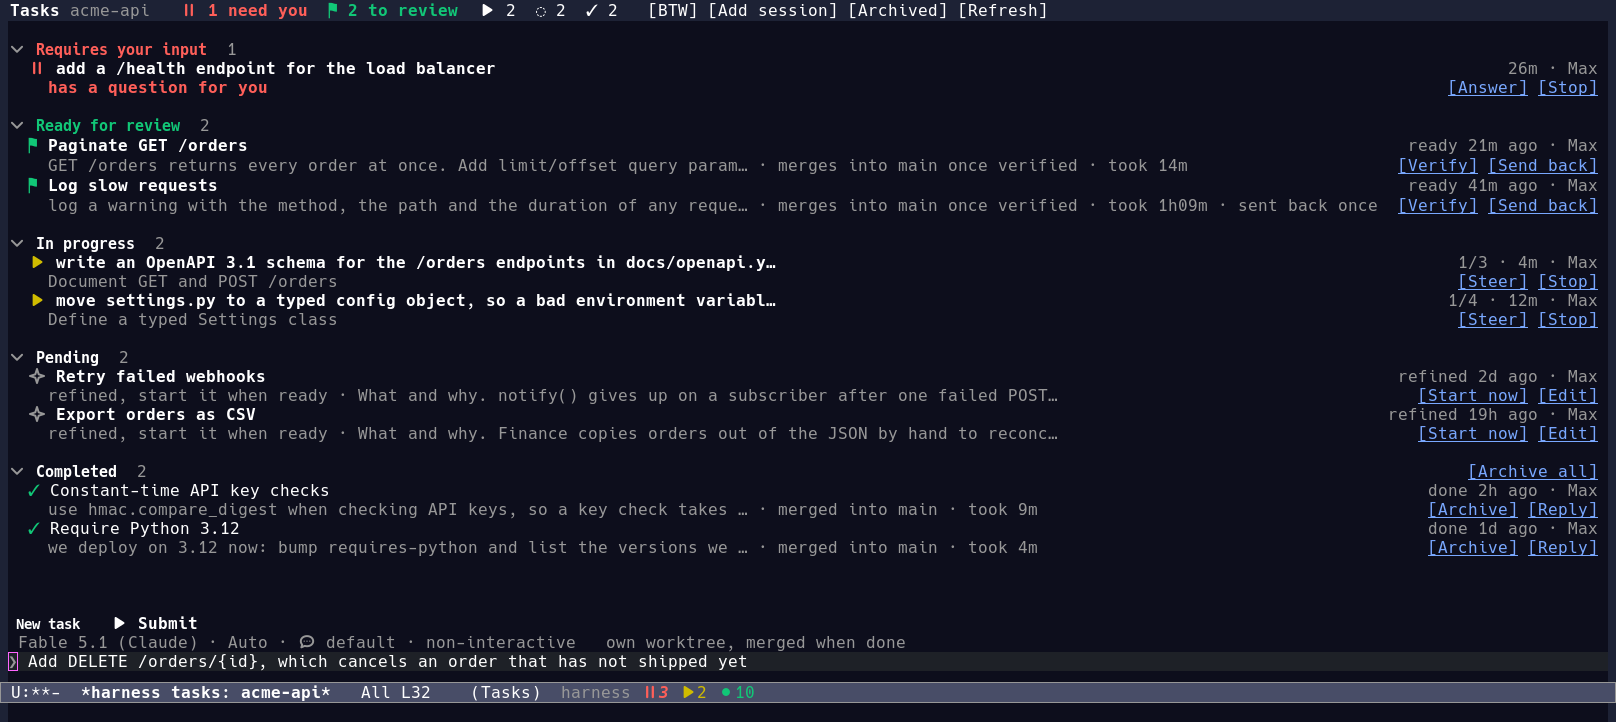
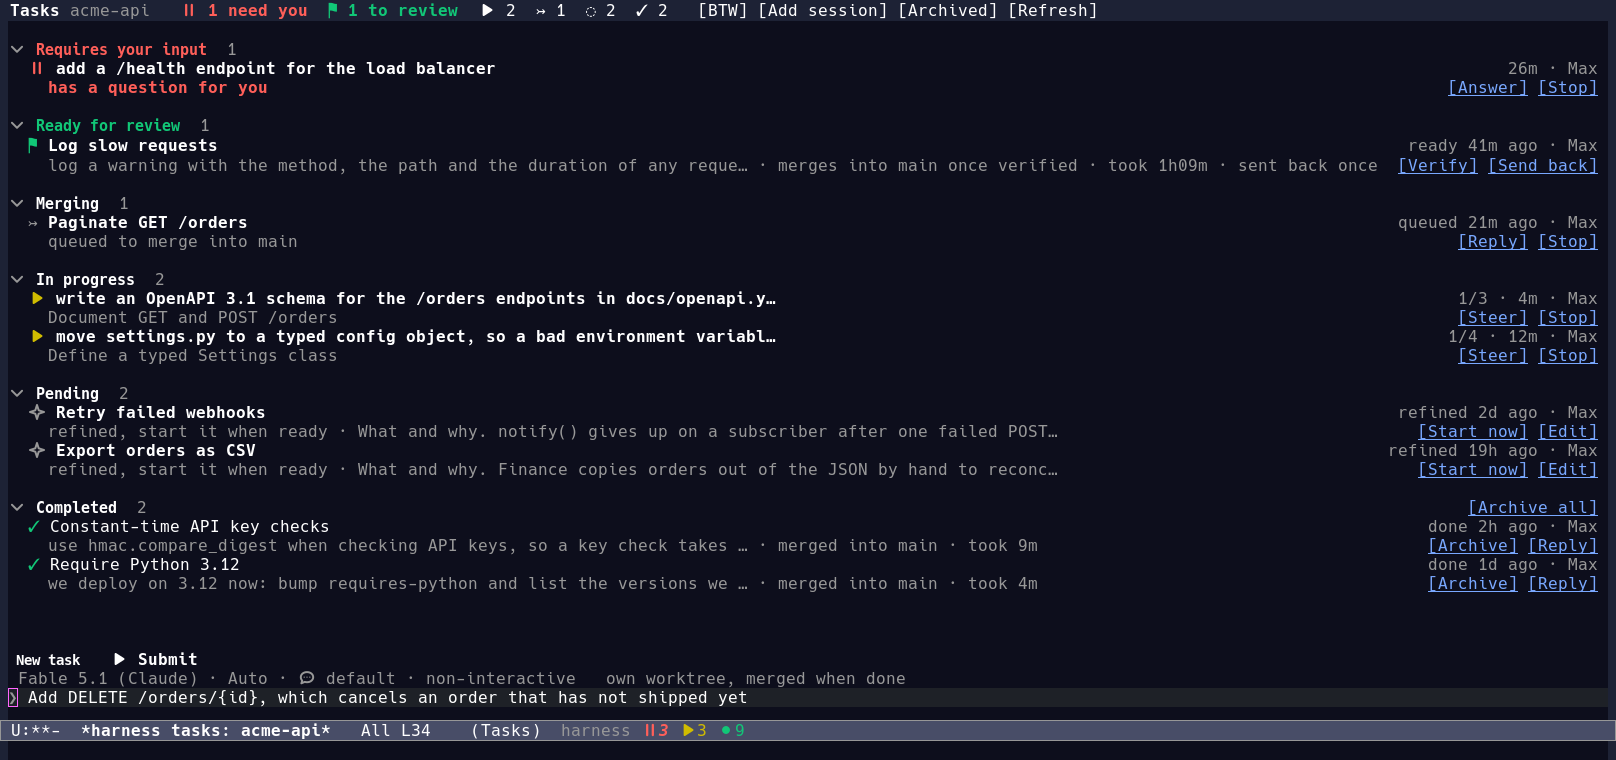
tasks: a Merging section for branches in the merge queue
A task whose branch holds a place in the merge queue now has a column of
its own: `merging', queued for the queue's turn, merging, or its session
resolving the conflicts.  The board draws it as its own section right
after Ready for review, in the queue's own order (`:merge-queued' records
when a branch joined, and the card says "queued 2m ago"), with the merge
gone into as its detail.  A session that is waited on -- a conflict turn
asking a question or for a permission -- still reads needs-input: the
queue waits for the user too.

- harness-tasks: the derived column, the `:merge-queued' stamp, and the
  commentary; task files keep writing `column: merging'.
- task_list/task_wait: the column, its filter and its `until'.
- board: the section, its icon, details, meta, actions, header count and
  the queue ordering; the media world verifies one branch into the queue
  for the tasks picture.

diff --git a/docs/architecture.md b/docs/architecture.md
@@ -1007,15 +1007,18 @@ pending request and resolves when answered).
 Task mode: one session per task.  TASK =
 `(:id "t-…" :project ROOT :cwd DIR :prompt "…" :attachments (…)
 :state pending|refining|active|merging|review|done
-:column pending|needs-input|active|review|done
+:column pending|needs-input|active|review|merging|done
 :backlog BOOL :note "the words a backlog task was written up from" :refined F
 :session SID :outcome nil|end-turn|error|cancelled|merge-failed|merged|…
 :error "…" :worktree DIR :branch NAME :base NAME :merge-status nil|queued|merging|conflict
-:conflicts (FILE…) :merged BOOL :archived BOOL :created F :started F :finished F
+:merge-queued F :conflicts (FILE…) :merged BOOL :archived BOOL :created F :started F :finished F
 :verified BOOL :verified-at F :feedback ((:text "..." :at F) ...)
 :file "docs/tasks/ID-SLUG.md" :updated F :extra (RAW-ENTRY ...))`.
 `:column` is derived on every read: `needs-input` when the session is
-blocked on a request or the task stopped part way, `review` while its
+blocked on a request or the task stopped part way, `merging` while its
+branch holds a place in the merge queue (`:merge-status' queued,
+merging or conflict; `:merge-queued' is when it joined, which orders
+the board's section), `review` while its
 finished work waits for the user's verdict.  `:file` (relative
 to `:project`), `:updated` (when the harness last wrote the file) and
 `:extra` (the raw frontmatter entries the harness does not know) belong
@@ -1070,6 +1073,8 @@ to the task's file (below); the record also keeps `:file-base` and
   `merge/enqueue SID TARGET`, TARGET being the project's root session
   named `harness-tasks-merge-session-name`
   (created on demand); `merge/finished … merged` makes the task `done`.
+  While its branch holds a place in the queue the task is in the
+  `merging` column (`:merge-queued` says when it joined).
   Failures the agent can fix (uncommitted work) are steered by the merge
   queue; others, or more than `harness-tasks-merge-attempts`, set
   `:outcome merge-failed`.  Outside git `end-turn` makes it `done`.
@@ -1079,7 +1084,8 @@ to the task's file (below); the record also keeps `:file-base` and
   TASK`; in git its branch waits unmerged, so nothing reaches the base
   branch unreviewed.  `task/verify ID` accepts the work (`:verified t
   :verified-at F`): its branch goes through the merge queue as above
-  and the task is `done` once merged (outside git, or when the branch
+  and the task is `done` once merged, waiting in `merging` between the
+  two (outside git, or when the branch
   merged already, at once).  `task/reject ID FEEDBACK &optional
   ATTACHMENTS` sends it back: the feedback goes to the same session, in
   its own worktree and with its provider conversation, as a prompt
@@ -1388,10 +1394,10 @@ TRAMP prefixes come from the session host):
 | `session_send` | Message session | session_id, message, mode (send/queue), wait | meta |
 | `session_control` | Control session | session_id, action (cancel/resume/close/rename/answer), name, question_id, answer | meta |
 | `session_wait` | Wait for sessions | session_id / session_ids, until (stopped/idle/blocked/running/changed), mode (all/any), timeout_seconds | read |
-| `task_list` | List tasks | column (pending/needs-input/active/review/done), include_archived, all_projects | read |
+| `task_list` | List tasks | column (pending/needs-input/active/review/merging/done), include_archived, all_projects | read |
 | `task_submit` | Submit task | prompt, cwd, model, thinking, refine (for the backlog) | meta |
 | `task_control` | Control task | task_id, action (start/message/cancel/merge/verify/reject/complete/archive/restore/delete), message (the feedback, for reject) | meta |
-| `task_wait` | Wait for tasks | task_id / task_ids, until (settled/done/needs-input/active/review/changed; settled counts review), mode, timeout_seconds | read |
+| `task_wait` | Wait for tasks | task_id / task_ids, until (settled/done/needs-input/active/review/merging/changed; settled counts review), mode, timeout_seconds | read |
 | `notify` | Notification | message, title, urgency (low/normal/critical), providers, url | meta (needs no approval: `harness-perms-auto-allow-tools`) |
 | `notification_providers` | Notification providers | (none) | read |
 | `merge_done` | Finish merge | none | meta (merge module) |
@@ -1669,10 +1675,11 @@ The task board's function opens the board of the notification's
 notification through `_harness/notification/send` and says in the
 echo area what each provider did with it.
 
-Task board (`harness-ui-tasks`, `C-c h a`): the project's tasks in five
-sections -- requires your input, ready for review, in progress, pending,
-completed -- with each card's current todo, progress, elapsed time,
-cost and merge state, one-click answers to a blocked task's question or
+Task board (`harness-ui-tasks`, `C-c h a`): the project's tasks in six
+sections -- requires your input, ready for review, merging, in progress,
+pending, completed -- with each card's current todo, progress, elapsed
+time, cost and merge state, one-click answers to a blocked task's
+question or
 permission, and a compose box that submits a task, edits a pending one,
 messages a task's session, answers its question or takes the feedback
 that sends a task back from review (`C-g` leaves an edit, message,
@@ -1680,7 +1687,10 @@ answer or feedback for a new task again: a question stays waiting,
 never cancelled).  A task in review shows [Verify] and [Send back]: `v`
 accepts the work (its branch then merges), `R` sends it back to its
 session with the feedback written in the compose box (`C-u R` reads it
-in the minibuffer).  The header counts the tasks to review, and
+in the minibuffer).  A verified task waits in merging -- queued for the
+queue's turn, merging, or its session resolving the conflicts -- saying
+so on its card until the branch is in and it moves to completed.  The
+header counts the tasks to review, and
 `task/review` says in the echo area that one is ready
 (`harness-ui-tasks-notify-review`).  RET opens the session, and
 `C-c h a` there leads back to the open board listing its task, whatever
@@ -1705,7 +1715,8 @@ its tasks (`task/btw`).  Boards reload after any
 task, merge, turn, status, worktree or reload event.  New tasks show at
 the top of in progress (latest started first), review lists the latest
 finished first and completed the latest completed (verified, else
-finished) first; pending is the queue, in the order its tasks start,
+finished) first; merging is the queue's own order, from when each
+branch joined it; pending is the queue, in the order its tasks start,
 with the backlog among it (oldest first; only queued tasks have a place
 in line).
 

diff --git a/README.md b/README.md
@@ -45,7 +45,7 @@ APIs and AWS Bedrock.
 |---|---|
 | ![A chat waiting for permission to run pip install, with the allow and deny buttons](docs/media/chat-permission.png) | ![A chat waiting for the answer to a question, with three options](docs/media/chat-question.png) |
 | A permission request, answered in the chat | A question from the agent, answered with a digit |
-| ![The task board with tasks needing input, in review, in progress, pending and completed](docs/media/tasks.png) | ![The conversation tree of a session, its fork and a BTW](docs/media/tree.png) |
+| ![The task board with tasks needing input, in review, merging, in progress, pending and completed](docs/media/tasks.png) | ![The conversation tree of a session, its fork and a BTW](docs/media/tree.png) |
 | The task board: each task has a session and a worktree | The conversation tree of a session, a fork and a BTW |
 | ![The usage dashboard: a month of cost per day, cost by model, the plan's quota and budgets](docs/media/usage.png) | ![The settings page for one project, which overrides two settings](docs/media/settings.png) |
 | Usage: cost per day and model, plan quota, budgets | Settings, here as one project overrides them |
@@ -291,6 +291,10 @@ so several tasks can work in parallel.
   (its branch merges and the task is done) or `R` to send it back to
   its session with feedback. With `harness-tasks-require-verification`
   set to nil, tasks complete without review.
+- A verified task waits in *Merging* while its branch goes through the
+  merge queue: queued for the queue's turn, merging, or, when the merge
+  conflicts, its session resolving them. The card says where it stands;
+  the task moves to *Completed* once the branch is in.
 - `I` adds an ongoing session to the board as a task, and `b` opens a
   BTW conversation about the tasks.
 - `RET` opens the session of the task at point. From that session,

diff --git a/docs/screenshots.md b/docs/screenshots.md
@@ -95,8 +95,9 @@ calls a model or the network.
   three projects, and `harness-media--seed-budgets` adds three budgets,
   sized from that usage so their meters land at different levels.
 - `harness-media--build-tasks` submits tasks and drives them, as a user
-  would, into every column of the board: two verified and merged, two
-  in review (one sent back once), one asking a question, two working
+  would, into every column of the board: two verified and merged, one
+  verified and waiting in the merge queue, one in review (sent back
+  once), one asking a question, two working
   (their turns held half way), two written up for the backlog.  They
   run in real worktrees, commit and merge.
 - `harness-media--build-sessions` runs the conversations: the first
